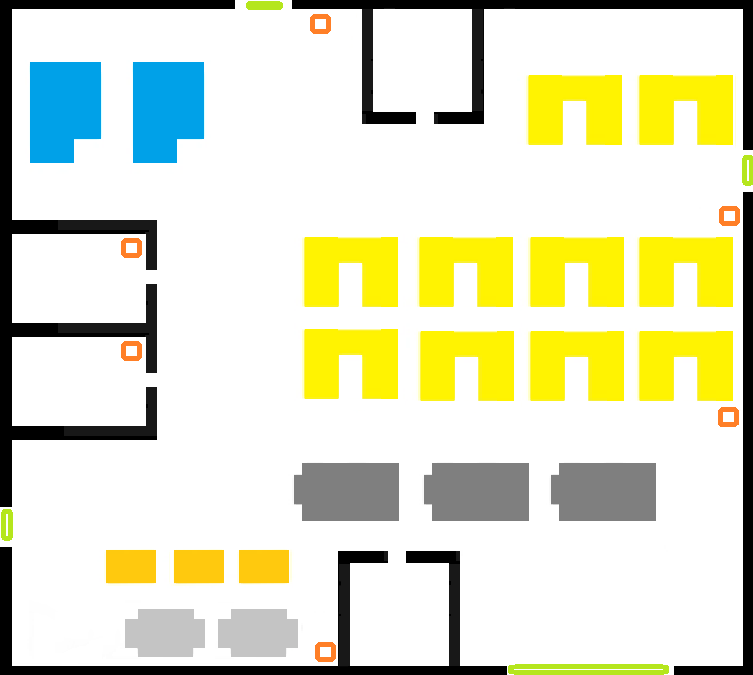
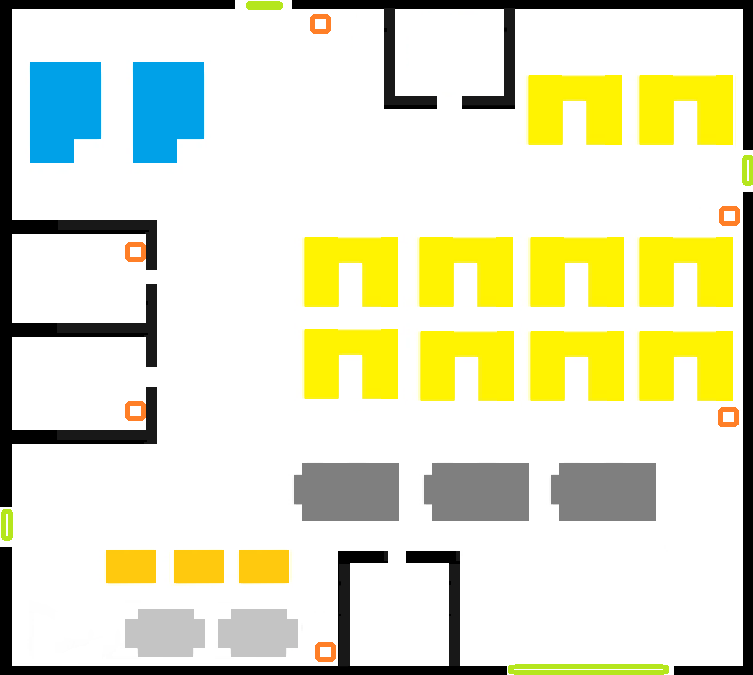
fix: 지도 이미지 갱신

diff --git a/server/evac_map_tools/README.md b/server/evac_map_tools/README.md
@@ -134,7 +134,7 @@ bool exportToMainC(const std::string& imagePath, const std::string& mainCPath);
 ## 6. 알고리즘 / 확장 계획 참고
 
 - 경로 탐색은 전광판마다 BFS를 한 번 돌려 모든 출구까지의 최단 경로를 뽑는 방식 (그리드가 60x60 균일 비용이라 BFS가 Dijkstra/A*보다 단순하고 충분함).
-- **화재/위험구역 표시는 구현됨** — 단, 이 라이브러리(`EvacPlanner`)가 아니라 UART 프로토콜(`drivers/stm_uart_display/stm_display_protocol.h`) 쪽에 있음. `CMD_EVAC_PATH`(0xB1, 경로 전용)와 별개로 `CMD_EVAC_FIRES`(0xB2)로 화재 좌표를 최대 6개까지 배열로 STM32에 보낼 수 있고, STM32가 노란색으로 반경만큼 표시함 (대피경로 자체는 빨강, 흐르는 이동 하이라이트는 자홍). `EvacPlanner`가 계산한 격자 좌표계(60x60, `{y,x}`)를 그대로 화재 좌표에도 써서 경로/화재/벽이 전부 같은 좌표계를 공유함. `EvacPlanner` 자체는 화재를 반영해 경로를 우회 계산하진 않음(화재 표시와 경로 계산은 독립적) — 서버(`server_main.cpp`)가 필요하면 직접 필터링해야 함.
+- **화재/위험구역 표시는 구현됨** — 단, 이 라이브러리(`EvacPlanner`)가 아니라 UART 프로토콜(`drivers/stm_uart_display/stm_display_protocol.h`) 쪽에 있음. `CMD_EVAC_PATH`(0xB1, 경로 전용)와 별개로 `CMD_EVAC_FIRES`(0xB2)로 화재 좌표를 최대 6개까지 배열로 STM32에 보낼 수 있고, STM32가 반경만큼 빨간 사각형으로 채우고 그 안쪽에 더 작은 노란 사각형(불꽃 느낌)을 얹어서 표시함 (대피경로 자체는 빨강, 흐르는 이동 하이라이트는 자홍, 출구는 3x3 초록). `EvacPlanner`가 계산한 격자 좌표계(60x60, `{y,x}`)를 그대로 화재 좌표에도 써서 경로/화재/벽이 전부 같은 좌표계를 공유함. `EvacPlanner` 자체는 화재를 반영해 경로를 우회 계산하진 않음(화재 표시와 경로 계산은 독립적) — 서버(`server_main.cpp`)가 필요하면 직접 필터링해야 함.
 
 ## 7. 재생성이 필요한 경우
 
